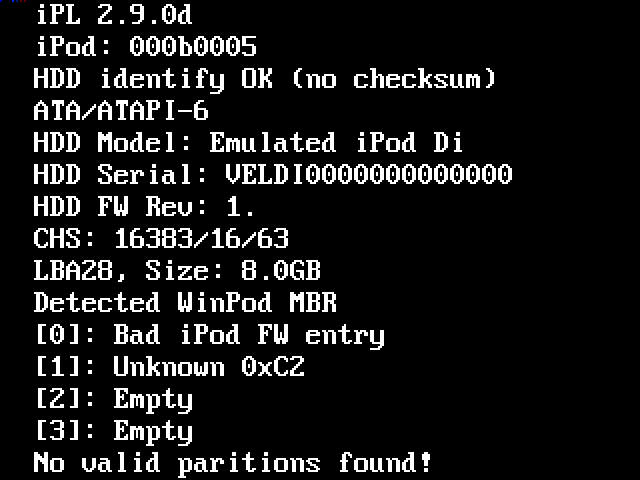
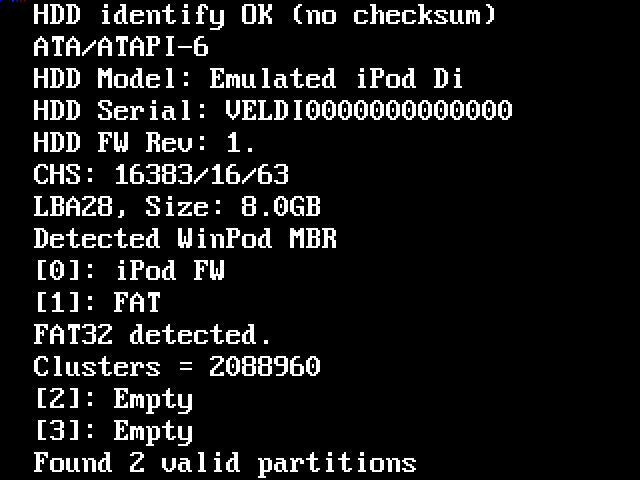
docs: the ipodloader2 picture is the working loader, and there was no regression
ipod-24-ipodloader2.png showed "No valid paritions found!". It is now the same
console saying "[0]: iPod FW / [1]: FAT / FAT32 detected / Clusters = 2088960 /
Found 2 valid partitions", which is the exact counterpart. Both pictures in the
README are now the loader working; the two upstream bugs are still described,
they just no longer ship a photograph of the failure.

The "71 ATA against a recorded 3 194" that blocked this was not a regression. The
old binary, built from the very commit that recorded 3 194, produces the same 71
on the same image — and the same 184 283 902 unmapped reads with the new one, to
the read. What was missing was the recipe: --osos-from-disk (so the loader comes
out of the drive's own firmware partition at its entry offset 0x735a00),
--rdval=0x70000000=0x3232432D (so ipod_is_pp5022 sees its '2'), and --sysinfo.

The last one is the one that mattered and it is worth writing down. With the chip
identified, ipod_set_sysinfo dereferences 0x4001ff1c — the PP5022 sysinfo pointer
— and with no IsyS block there ipod.hw_rev stays 0, so ipod.hw_ver is 0 and the
loader addresses a 1G iPod's registers at 0xcf00xxxx forever. Adding --sysinfo
takes it from 184 283 902 unmapped reads to none at all, and from 0 ATA commands
to 3 196.

Changed region(s): [[0.0312, 0.0, 0.8125, 0.7812], [0.0312, 0.9375, 0.5938, 1.0], [0.625, 0.9375, 0.6875, 1.0]]

diff --git a/README.md b/README.md
@@ -278,8 +278,9 @@ machine at all — `script: 0 of 20 steps fired`. The click-wheel fix it illustr
 |---|---|
 | ![](docs/media/ipod-24-ipodloader2.png) | ![](docs/media/ipod-26-ipodlinux-loaded.png) |
 
-The left is where it stopped for a long time — `No valid paritions found!` — and **both reasons were
-bugs in its own source**, not in this emulator. It tests the firmware partition with
+It reads the drive, finds both partitions, walks the FAT32 volume looking for a kernel, and jumps to
+it. For a long time it did not: it printed `No valid paritions found!`, and **both reasons were bugs
+in its own source**, not in this emulator. It tests the firmware partition with
 `if (mlc_strncmp(magic, "]ih[", 4))` while `mlc_strncmp` returns zero on a match, so it accepts a
 partition only when the magic does *not* match; and it has no case for partition type `0x0C`, FAT32
 with LBA, which is what iTunes on Windows writes and what this project's own `make-disk` writes.
